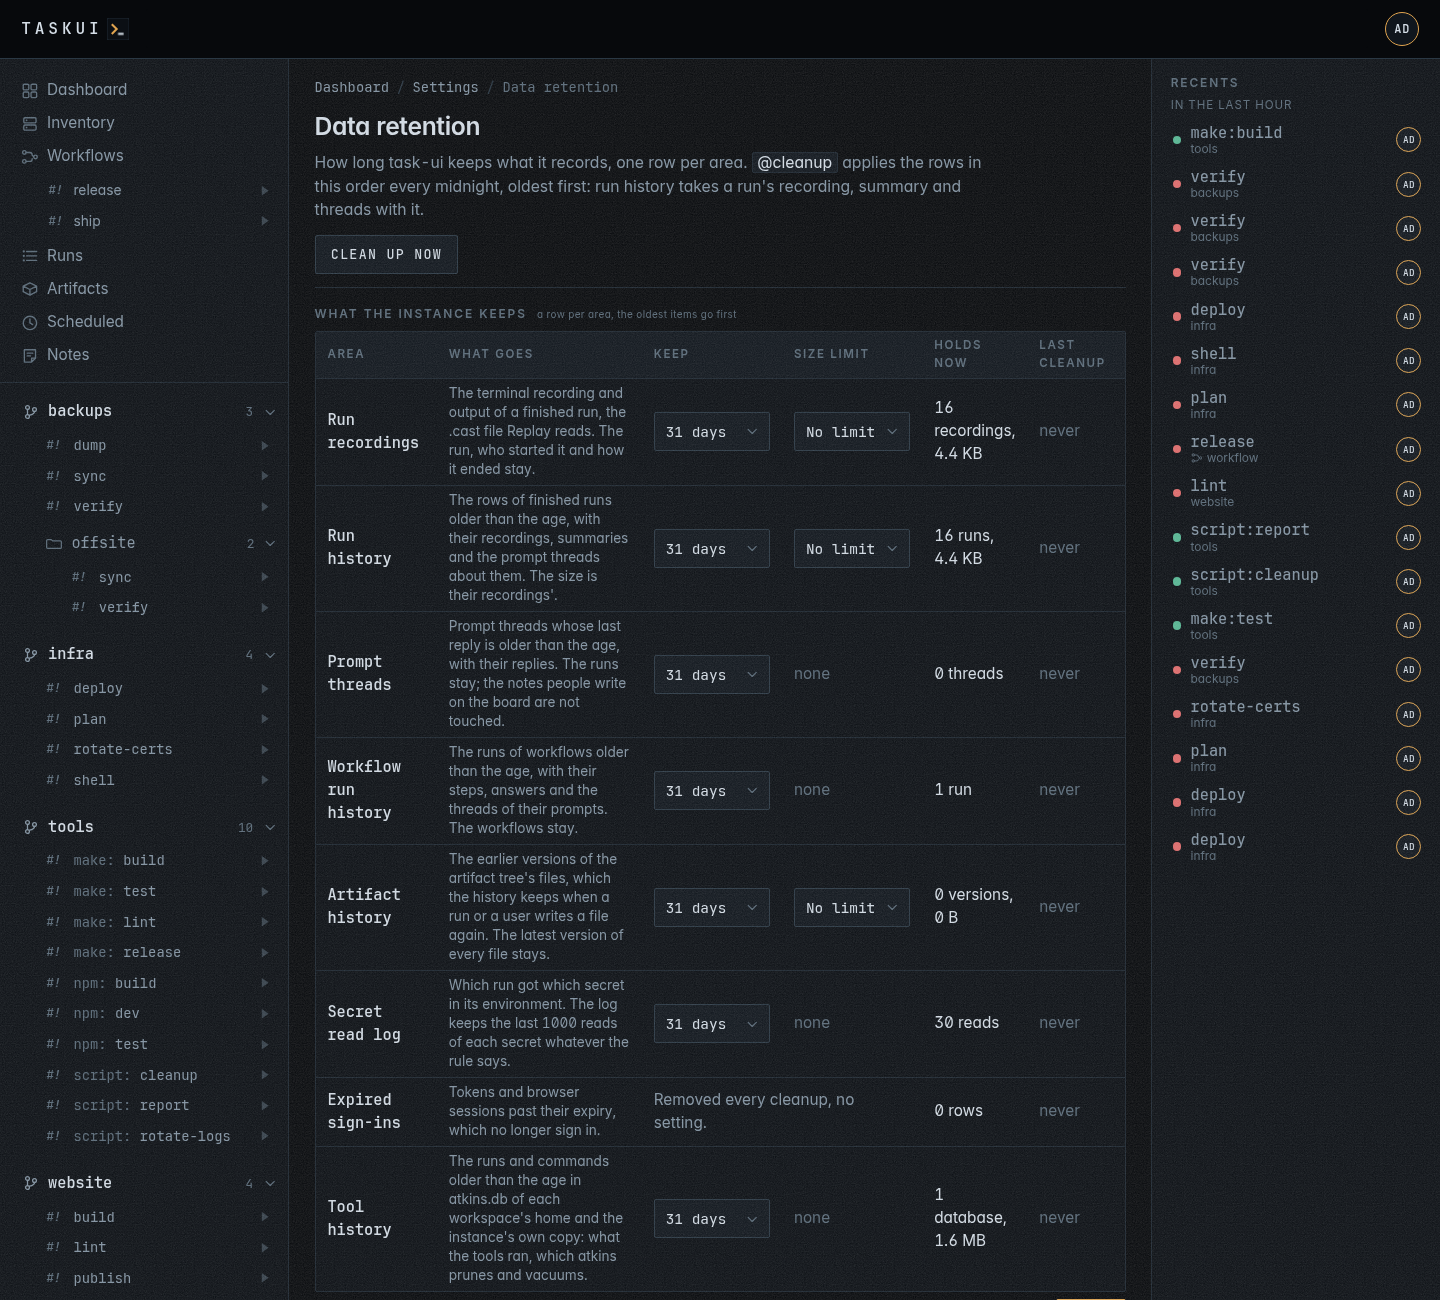
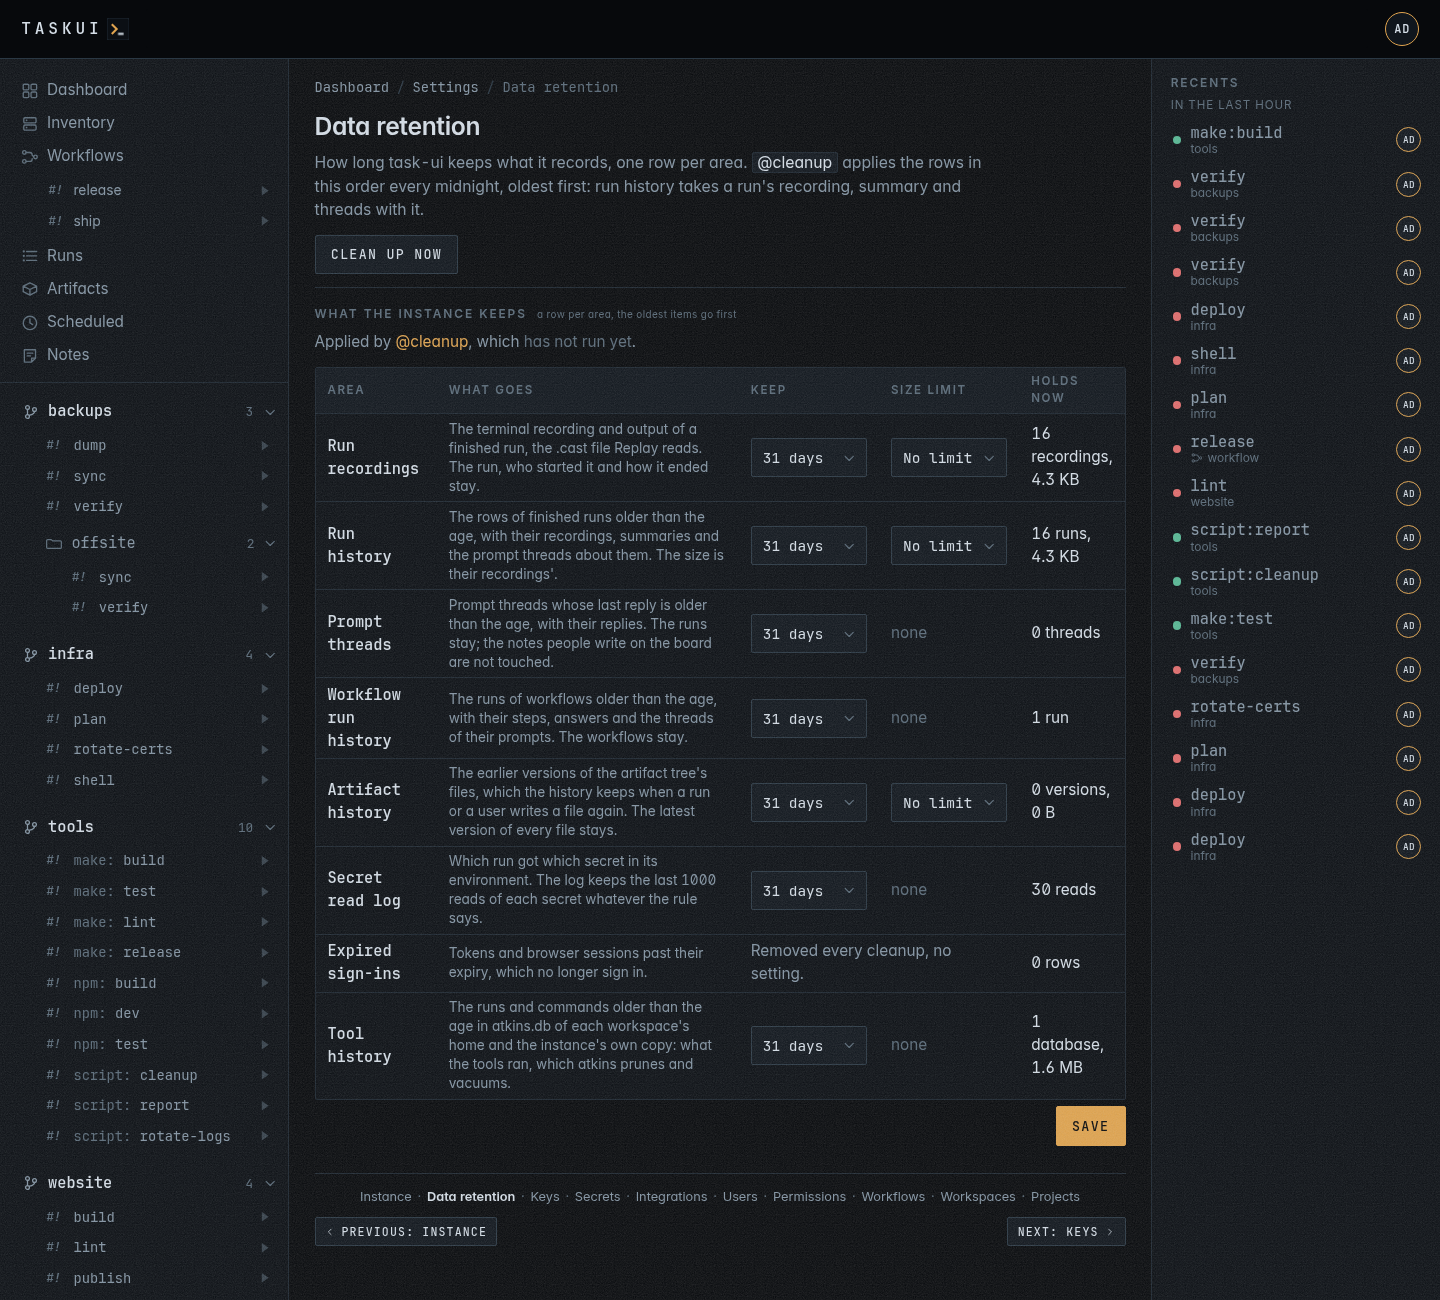
Data retention says above its table that @cleanup applies the rules, linking the job's runs and its last run with its state; the table drops the Last cleanup column

diff --git a/frontend/retention_integration_test.go b/frontend/retention_integration_test.go
@@ -48,11 +48,15 @@ func TestDataRetention(t *testing.T) {
 	settings[retention.Runs] = retention.Rule{Age: retention.Year, Limit: 3 << 30}
 	settings[retention.Artifacts] = retention.Rule{Age: retention.Never}
 	assert.NoError(t, f.opts.Cleaner.Save(context.Background(), settings))
+	body := f.page(t, asAdmin, "/settings/retention")
+	assert.Contains(t, body, `Applied by <a href="/runs?folder=_&amp;job=@cleanup" title="The runs of @cleanup">@cleanup</a>, which <span class="faint">has not run yet</span>.`, "the lead names the job before its first run")
 	cleanup := f.run(t, model.Default, "@cleanup", asAdmin, model.StateOK)
 
-	body := f.page(t, asAdmin, "/settings/retention")
+	body = f.page(t, asAdmin, "/settings/retention")
 	assert.Contains(t, body, "<h2>Data retention</h2>")
-	assert.Contains(t, body, "<thead><tr><th>Area</th><th>What goes</th><th>Keep</th><th>Size limit</th><th>Holds now</th><th>Last cleanup</th></tr></thead>")
+	assert.Contains(t, body, "<thead><tr><th>Area</th><th>What goes</th><th>Keep</th><th>Size limit</th><th>Holds now</th></tr></thead>")
+	assert.NotContains(t, body, "Last cleanup")
+	assert.Contains(t, body, `Applied by <a href="/runs?folder=_&amp;job=@cleanup" title="The runs of @cleanup">@cleanup</a>, which last ran <a href="/runs/`+cleanup.ID+`"`)
 	last := -1
 	for _, area := range retention.Areas {
 		at := strings.Index(body, `<td class="key">`+area.Title+`</td>`)

diff --git a/frontend/view/retention_row_test.go b/frontend/view/retention_row_test.go
@@ -71,6 +71,7 @@ func TestRetentionRow_Page(t *testing.T) {
 	assert.Contains(t, body, "2 databases, 4.0 KB")
 	assert.Contains(t, body, "2 recordings, 4.0 KB")
 	assert.Contains(t, body, "2 threads<")
-	assert.Contains(t, body, `<span class="faint">never</span>`, "no cleanup yet")
+	assert.Contains(t, body, `Applied by <a href="/runs?folder=_&amp;job=@cleanup" title="The runs of @cleanup">@cleanup</a>, which <span class="faint">has not run yet</span>.`, "the lead links the job; no cleanup yet")
+	assert.NotContains(t, body, "Last cleanup")
 	assert.Contains(t, body, `data-api="/api/retention" data-method="PUT"`)
 }

diff --git a/docs/guide/settings.md b/docs/guide/settings.md
@@ -109,8 +109,10 @@ the `setting` table as `runs.parent_env`.
 
 `/settings/retention` is one table of what the instance keeps, a row per
 area, with the columns **Area**, **What goes**, **Keep**, **Size
-limit**, **Holds now** and **Last cleanup**. Every area the instance
-records has a row, so nothing grows without a rule:
+limit** and **Holds now**. The line above the table names `@cleanup`,
+the job of the root folder that applies the rules, linking its runs,
+and says when it last ran and how it ended, linking the run. Every area
+the instance records has a row, so nothing grows without a rule:
 
 | Area | What goes | What stays | Rule |
 |------|-----------|------------|------|
@@ -140,9 +142,8 @@ select always shows the saved limit:
 | 50 GB |
 
 The rows without a size show a dash there. **Holds now** is the count,
-with the bytes where the items have them. **Last cleanup** is when
-`@cleanup` last ran and how it ended, linking the run. The fixed rows
-say their rule across the two columns.
+with the bytes where the items have them. The fixed rows say their
+rule across the two columns.
 
 Past either rule the oldest go first, until both hold. `@cleanup`
 applies the rows in the order of the table: run recordings, then run
